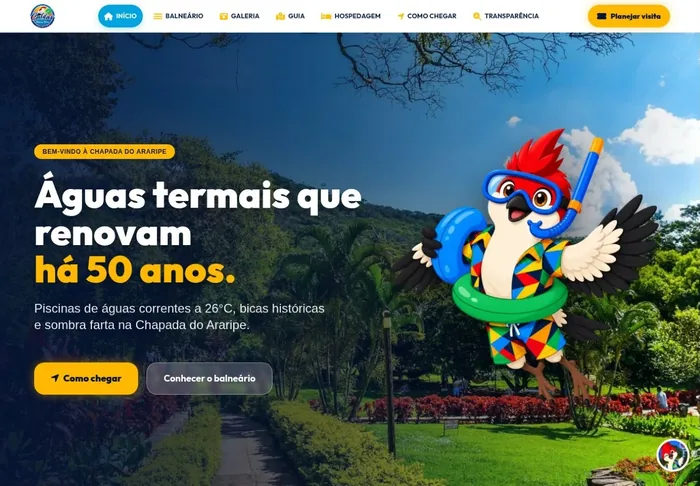
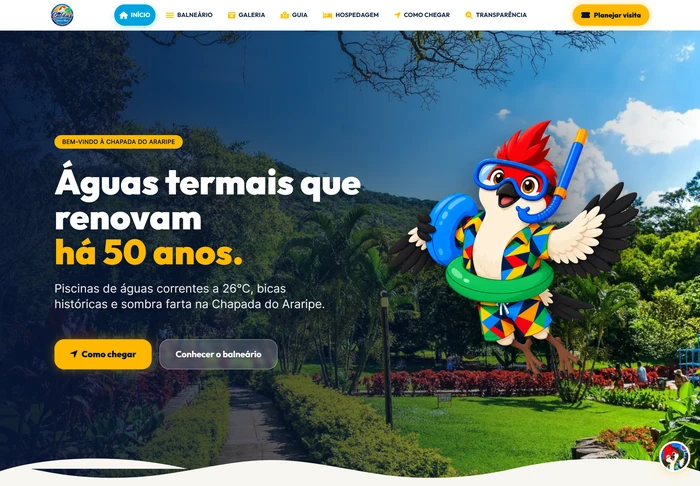
Deixa nítida a prévia do Balneário do Caldas
- Nova captura do site do Caldas em densidade 2x (1600px e 700px);
  a imagem anterior tinha artefatos de compressão.
- Cards da Início passam a usar srcset: telas de alta densidade
  recebem a versão grande em vez da de 700px.
- Cartão de "próximo projeto" também ganha srcset.

diff --git a/src/pages/Inicio.tsx b/src/pages/Inicio.tsx
@@ -95,7 +95,15 @@ export default function Inicio() {
           {CASES_COM_PAGINA().map((c, i) => (
             <li key={c.id} className="ini-projeto revelar" style={{ ['--atraso' as string]: `${i * 0.08}s` }}>
               <Link to={`/${c.id}`} className="ini-projeto__imagem" tabIndex={-1} aria-hidden="true">
-                <Tela src={c.imagemPequena} alt="" largura={700} altura={490} className={`ini-projeto__tela ini-projeto__tela--${c.id}`} />
+                <Tela
+                  src={c.imagem}
+                  srcPequena={c.imagemPequena}
+                  alt=""
+                  largura={c.imagemLargura}
+                  altura={c.imagemAltura}
+                  sizes="(max-width: 767px) 100vw, (max-width: 1023px) 50vw, 25vw"
+                  className={`ini-projeto__tela ini-projeto__tela--${c.id}`}
+                />
               </Link>
               <div className="ini-projeto__nome">
                 <Link to={`/${c.id}`}>{c.nome === 'Lunar Doceria' ? 'Lunar' : c.nome}</Link>

diff --git a/src/components/Case.tsx b/src/components/Case.tsx
@@ -94,7 +94,7 @@ export function ProximoCase({
           Próximo projeto<span className="ponto">.</span>
         </h2>
         <Link to={`/${caso.id}`} className="cas-proximo__cartao">
-          <img src={caso.imagemPequena} alt="" width={700} height={490} loading="lazy" />
+          <img src={caso.imagemPequena} srcSet={`${caso.imagemPequena} 700w, ${caso.imagem} ${caso.imagemLargura}w`} sizes="(max-width: 767px) 100vw, 40vw" alt="" width={700} height={490} loading="lazy" />
           <span className="cas-proximo__info">
             <span className="rotulo">{caso.segmento.split(' ')[0]}</span>
             <strong>{caso.nome}.</strong>

diff --git a/src/content/conteudo.ts b/src/content/conteudo.ts
@@ -221,8 +221,8 @@ export const CASES: Case[] = [
     dominio: 'balneariodocaldas.com.br',
     imagem: '/img/projetos/case-caldas.webp',
     imagemPequena: '/img/projetos/case-caldas-700.webp',
-    imagemLargura: 1333,
-    imagemAltura: 926,
+    imagemLargura: 1600,
+    imagemAltura: 1111,
     alt: 'Página inicial do site do Balneário do Caldas, com o título "Águas termais que renovam há 50 anos"',
     pagina: true,
   },
